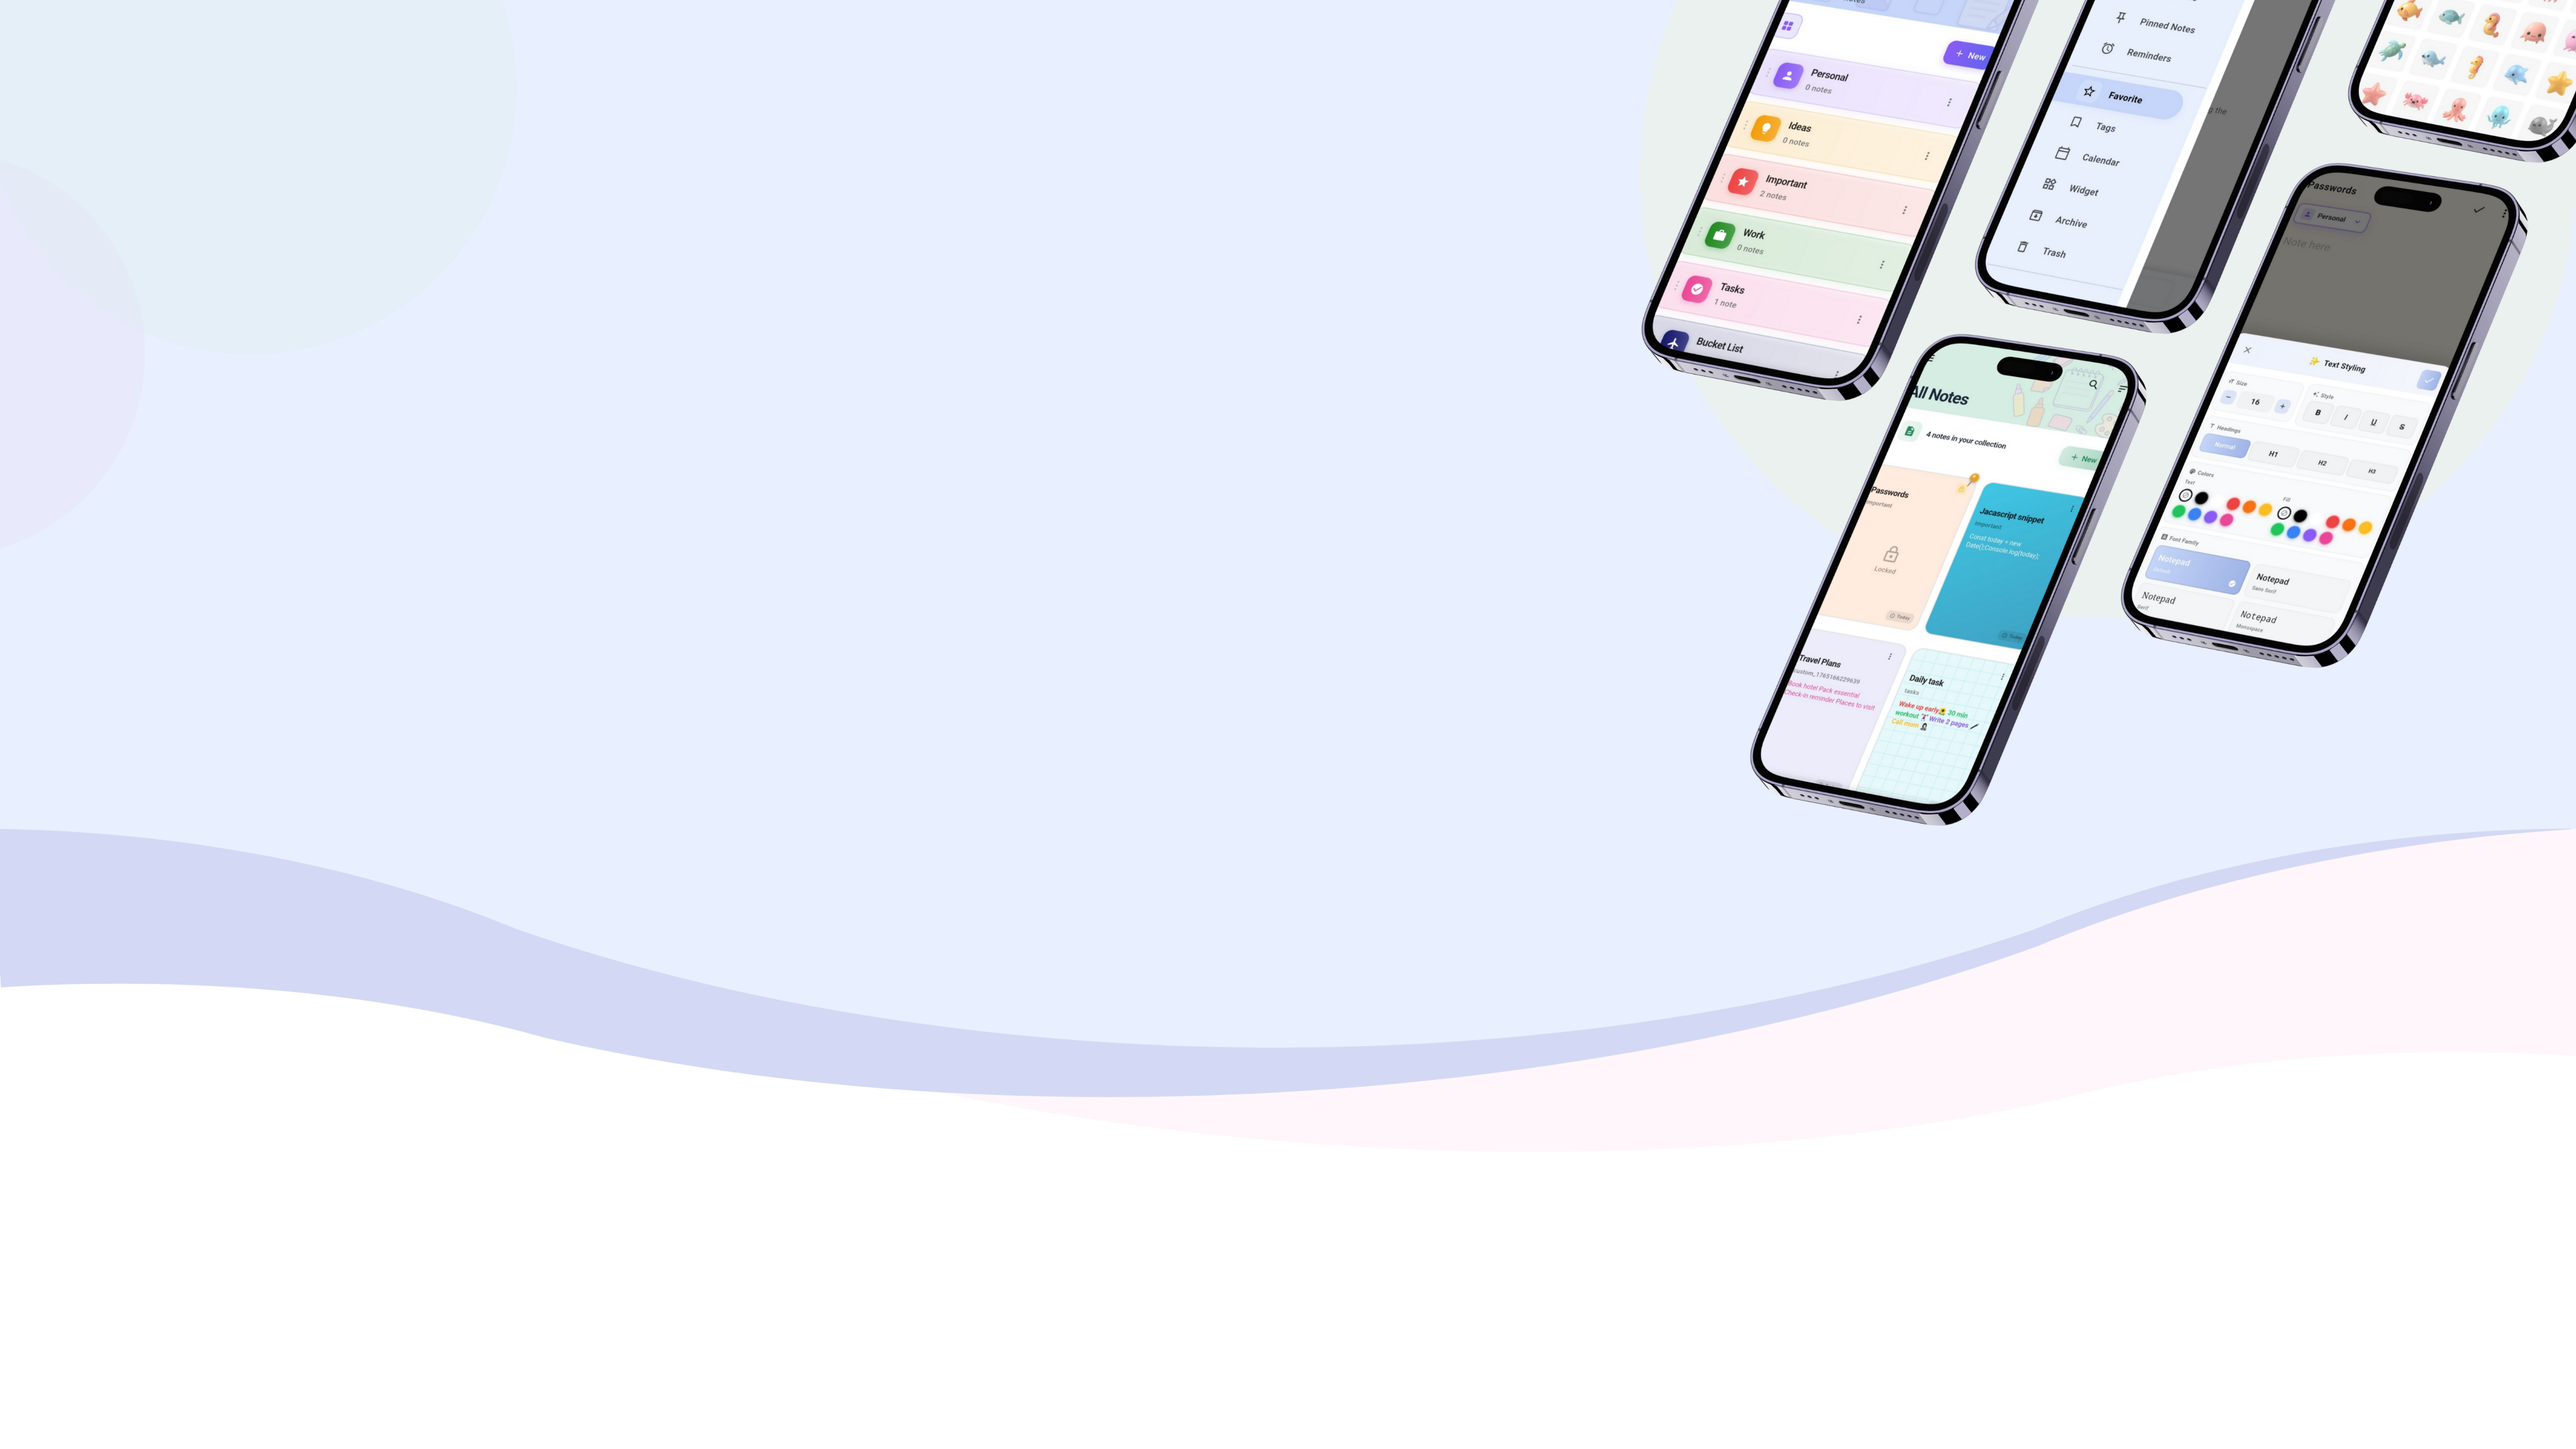
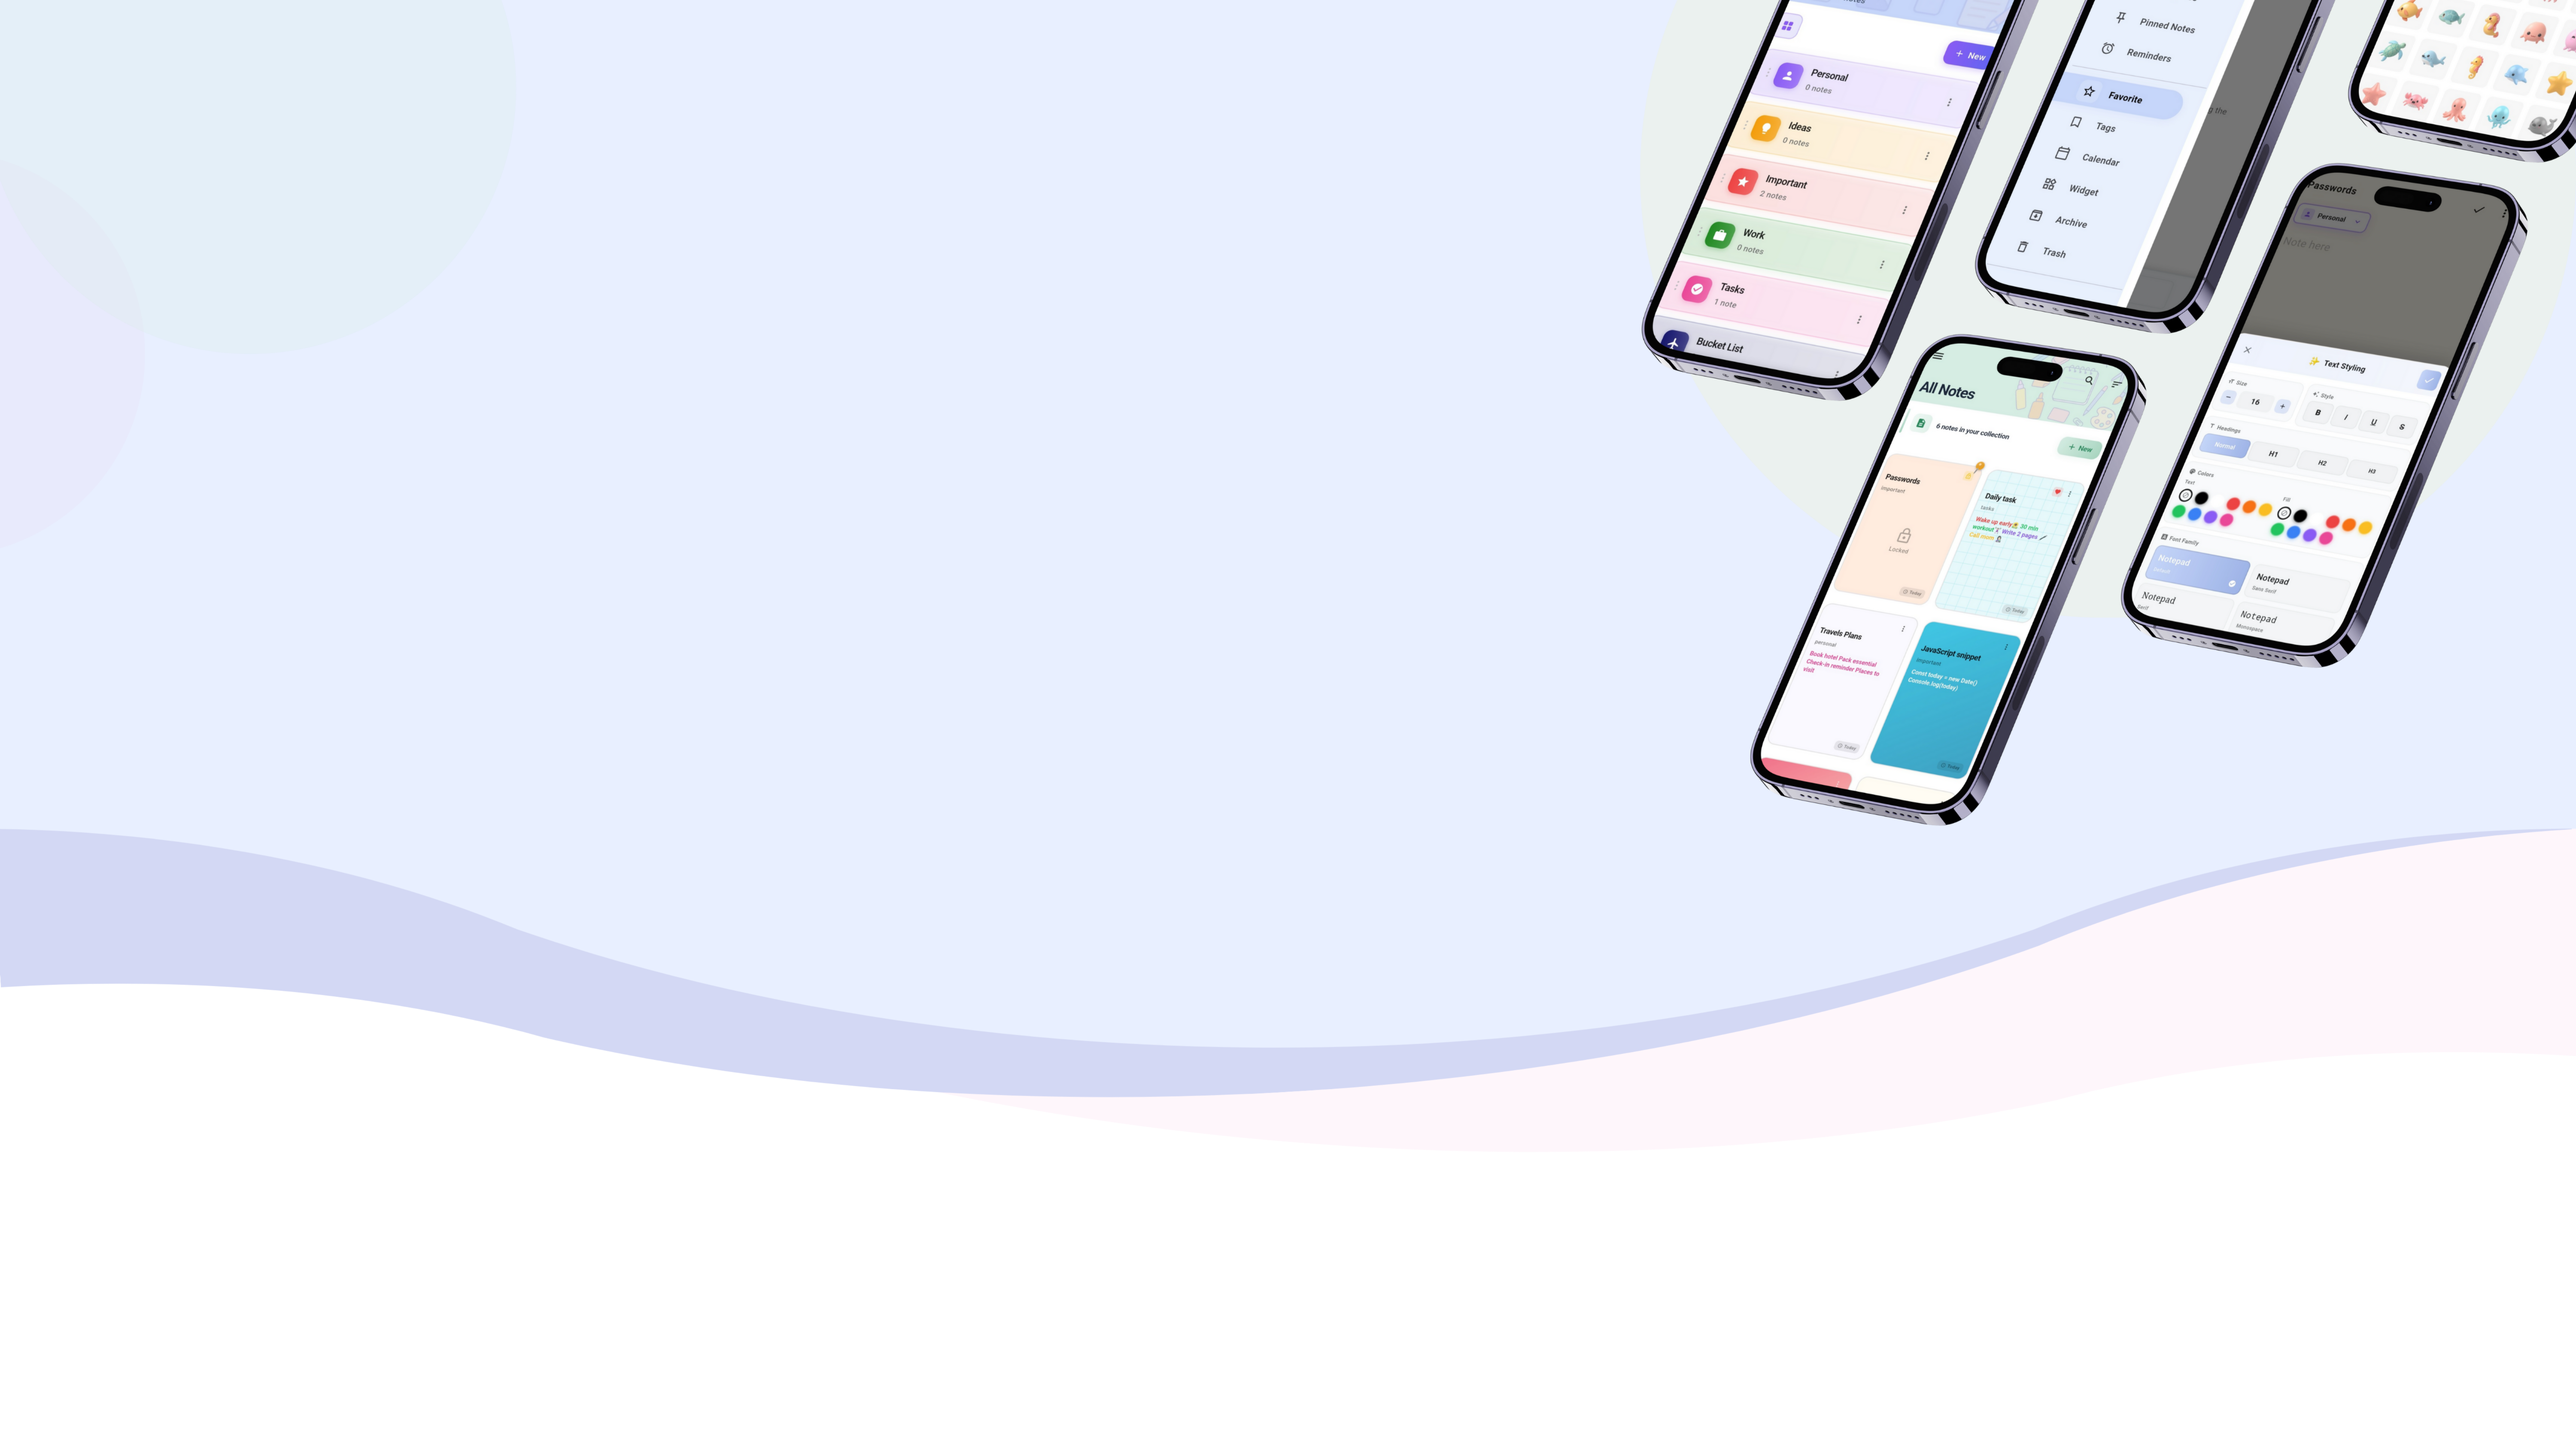
imagess changed

Changed region(s): [[0.6857, 0.2489, 0.8415, 0.56]]

diff --git a/src/pages/Home/FeatureHighlight.jsx b/src/pages/Home/FeatureHighlight.jsx
@@ -4,7 +4,10 @@ import { features } from "../../constants";
 import Slider from "react-slick";
 import "slick-carousel/slick/slick.css";
 import "slick-carousel/slick/slick-theme.css";
-import dummyImg from "../../assets/buyphone.png"
+import cloudsync from "../../assets/cloudsync.png"
+import managenotes from "../../assets/managenotes.png"
+import offlineapp from "../../assets/offlineapp.png"
+import texteditor from "../../assets/texteditor.png"
 
 const FeatureSlider = () => {
      const isMobile = window.innerWidth < 1000;
@@ -22,6 +25,13 @@ const FeatureSlider = () => {
           pauseOnHover: true,
           arrows: !isMobile
      };
+
+     const imageMap = {
+          "texteditor": texteditor,
+          "managenotes": managenotes,
+          "offlineapp": offlineapp,
+          "cloudsync": cloudsync
+     }
      return (
           <section className="w-full bg-white sm:mt-28" id="features">
                <div className="max-w-6xl mx-auto px-6">
@@ -37,18 +47,18 @@ const FeatureSlider = () => {
                                         key={index}
                                         className="min-w-full flex items-center justify-center p-1 snap-center bg-white rounded-3xl overflow-hidden h-fit"
                                    >
-                                        <div className="flex flex-col md:flex-row">
+                                        <div className="flex flex-col md:flex-row bg-gradient-to-br from-[#c6d6fa66] via-white to-[#FFFF8866]">
                                              {/* IMAGE – Balanced ratio */}
-                                             <div className="w-full md:w-[50%] md:ml-4 flex justify-center items-center">
+                                             <div className="w-full md:w-[60%] md:ml-4 flex justify-center items-center ">
                                                   <img
-                                                       src={dummyImg}
+                                                       src={imageMap[f.img]}
                                                        alt={f.title}
-                                                       className="w-full sm:w-[400px] h-full md:w-[350px] md:h-[380px] object-cover"
+                                                       className="w-full sm:w-[400px] h-full md:w-[450px] md:h-[480px] object-fit"
                                                   />
                                              </div>
 
                                              {/* TEXT – Rich content */}
-                                             <div className="w-full md:w-1/2 p-10 min-h-[600px] sm:min-h-fit flex flex-col justify-start sm:justify-center bg-gradient-to-br from-[#c6d6fa66] via-white to-[#FFFF8866] rounded-2xl">
+                                             <div className="w-full md:w-1/2 p-10 min-h-[600px] sm:min-h-fit flex flex-col justify-start sm:justify-center rounded-2xl">
 
                                                   <p className="text-xs md:text-sm uppercase tracking-wide text-primaryPurple font-semibold mb-3">
                                                        Featured Capability

diff --git a/src/constants/index.jsx b/src/constants/index.jsx
@@ -9,7 +9,7 @@ export const features = [
       "Supports embedding links and images",
       "Beautiful collection of rich backgrounds, emojis, and stickers"
     ],
-    img: "/images/feature1.png",
+    img: "texteditor",
   },
 
   // {
@@ -48,7 +48,7 @@ export const features = [
       "Lock notes, categories and app with passcode",
       "Export & import notes safely"
     ],
-    img: "/images/feature4.png",
+    img: "managenotes",
   },
 
   // {
@@ -73,7 +73,7 @@ export const features = [
       "Fast local caching",
       "Seamless cloud sync"
     ],
-    img: "/images/feature6.png",
+    img: "offlineapp",
   },
  {
   title: "Cloud Backup",
@@ -84,7 +84,7 @@ export const features = [
     "Designed for privacy and efficiency",
     "Safe, secure, and user-controlled",
   ],
-  img: "/images/feature7.png",
+  img: "cloudsync",
 }
 ];
 
